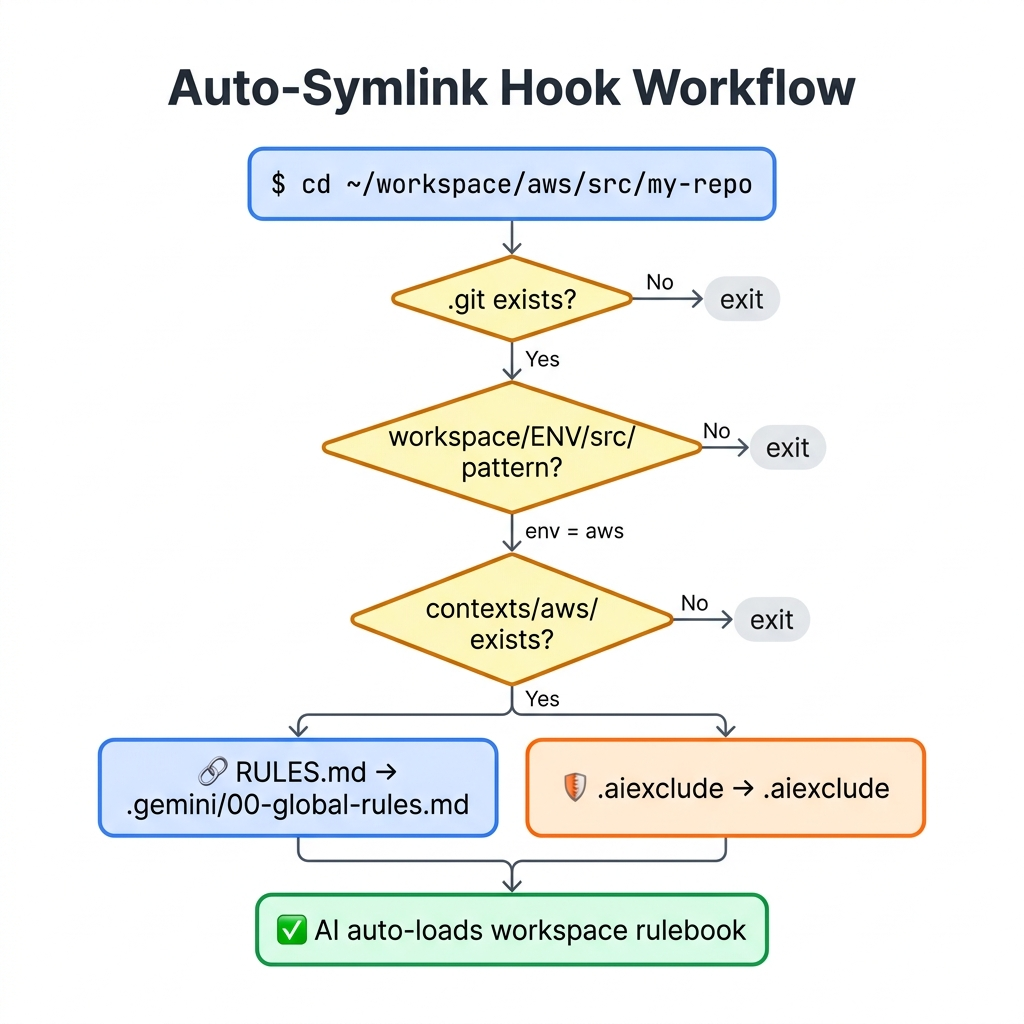
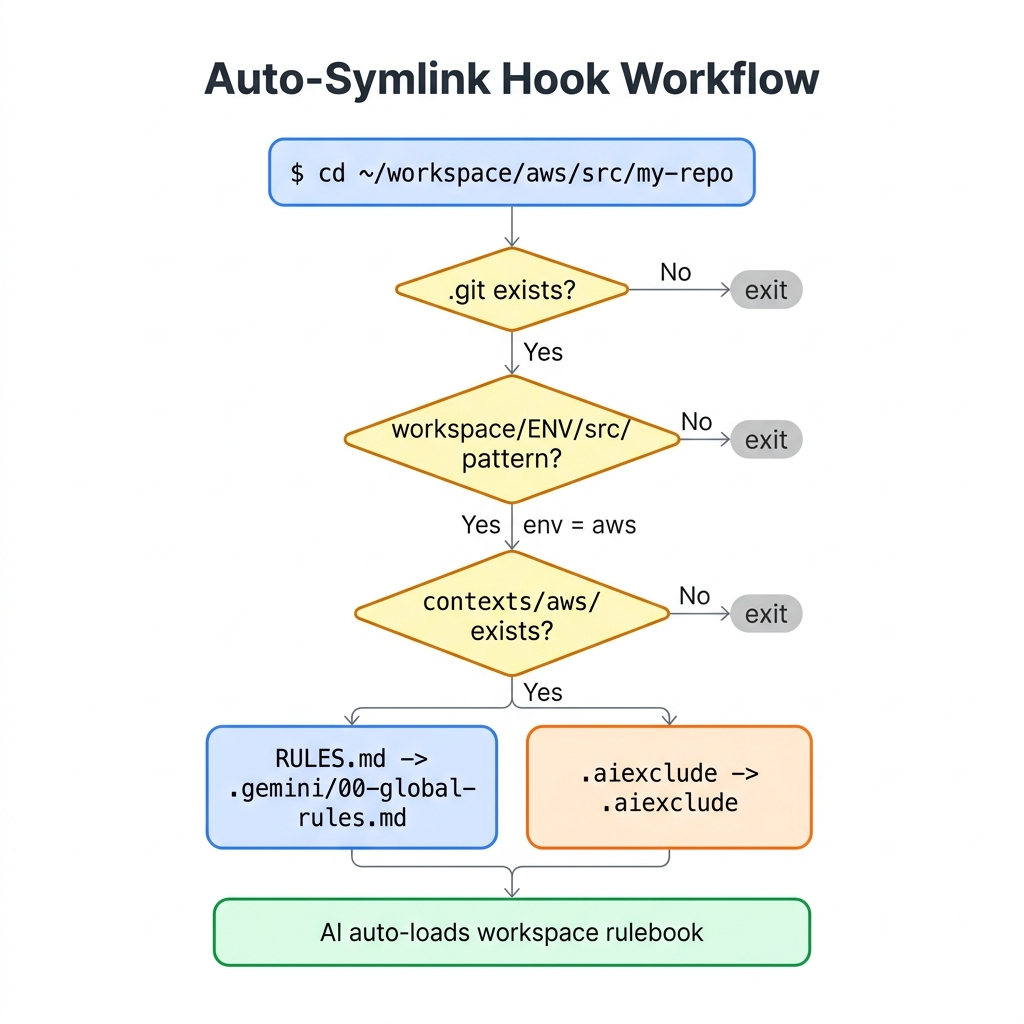
README 수정

Changed region(s): [[0.0938, 0.0625, 0.9062, 0.9688]]

diff --git a/README.md b/README.md
@@ -182,37 +182,11 @@ ls -la .gemini/
 
 ```text
 ~/dotfiles
-├── .aiexclude            # 루트: contexts/ 내 원본 소스 중복 인덱싱 차단
-├── .gitignore            # dotfiles 레포 자체 Git 무시 규칙
-├── GEMINI.md             # symlink → contexts/dotfiles/RULES.md
-│                         # (Gemini IDE 자동 인식 특수 파일명)
-├── README.md             # 본 문서
-├── setup.sh              # 전체 환경 자동 구성 스크립트 (set -euo pipefail)
-│
 ├── contexts/             # AI 컨텍스트 룰북 단일 진실 공급원 (SSOT)
-│   ├── dotfiles/         # dotfiles 레포 자체 관리용 메타 프롬프트
-│   │   ├── .contexts/    # 모듈 분할 소스 (000~050)
-│   │   │   ├── 000-universal-core.md
-│   │   │   ├── 010-dotfiles-core-standard.md
-│   │   │   ├── 020-shell-scripting-standard.md
-│   │   │   ├── 030-toolchain-management-standard.md
-│   │   │   ├── 040-dotfiles-security-standard.md
-│   │   │   └── 050-prompt-engineering-standard.md
-│   │   └── RULES.md      # 병합된 마스터 룰북 (setup.sh 자동 생성)
-│   │
 │   ├── aws/              # AWS 인프라 워크스페이스 룰북
-│   │   ├── .aiexclude    # AI 바이너리/로그 파일 차단 규칙
-│   │   ├── .contexts/    # 모듈 분할 소스 (000~110, 12개)
-│   │   └── RULES.md      # 병합된 마스터 룰북
-│   │
-│   ├── k8s/              # Kubernetes & Cloud Native 워크스페이스
-│   │   ├── .contexts/    # 모듈 분할 소스 (000~090, 10개)
-│   │   └── RULES.md      # 병합된 마스터 룰북
-│   │
-│   └── aiops/            # AIOps (운영 자동화) 워크스페이스
-│       ├── .aiexclude
-│       ├── .contexts/    # 모듈 분할 소스 (000~070, 8개)
-│       └── RULES.md      # 병합된 마스터 룰북
+│   ├── aiops/            # AIOps (운영 자동화) 워크스페이스
+│   ├── dotfiles/         # dotfiles 레포 자체 관리용 메타 프롬프트
+│   └── k8s/              # Kubernetes & Cloud Native 워크스페이스
 │
 ├── git/
 │   ├── .gitconfig        # 글로벌 Git 설정 (alias, pull.rebase=true)
@@ -224,8 +198,14 @@ ls -la .gemini/
 ├── vim/
 │   └── .vimrc            # Vim 설정 (클립보드 연동, YAML 2칸 탭)
 │
-└── zsh/
-    └── .zshrc            # Zsh 설정 (Oh My Zsh, 단축어, auto_symlink 훅)
+├── zsh/
+│   └── .zshrc            # Zsh 설정 (Oh My Zsh, 단축어, auto_symlink 훅)
+│
+├── .aiexclude            # 루트: contexts/ 내 원본 소스 중복 인덱싱 차단
+├── .gitignore            # dotfiles 레포 자체 Git 무시 규칙
+├── GEMINI.md             # symlink -> contexts/dotfiles/RULES.md
+├── README.md             # 본 문서
+└── setup.sh              # 전체 환경 자동 구성 스크립트 (set -euo pipefail)
 ```
 
 ---
@@ -236,98 +216,71 @@ ls -la .gemini/
 
 시스템 전역을 오염시키지 않고 `mise`와 `pipx`를 통해 안전하게 격리 설치됩니다.
 
-| 카테고리 | 도구 | 버전 |
-|---|---|---|
-| **보안 & 정책 검증** | trivy | 0.71.0 |
-| | conftest | 0.68.2 |
-| | cosign | 3.1.1 |
-| | trufflehog | 3.95.6 |
-| | checkov (pipx) | 3.3.1 |
-| | pre-commit (pipx) | 4.6.0 |
-| | yamllint (pipx) | 1.38.0 |
-| | cfn-lint (pipx) | 1.51.5 |
-| **IaC & 구성 관리** | terraform | 1.5.7 |
-| | terragrunt | 1.0.8 |
-| | tflint | 0.63.1 |
-| | terraform-docs | 0.24.0 |
-| | infracost | 0.10.44 |
-| | ansible | 9.5.1 |
-| | ansible-lint (pipx) | 26.4.0 |
-| **클라우드 CLI** | awscli | 2.15.30 |
-| | azure-cli | 2.87.0 |
-| | aws-sam-cli (pipx) | 1.162.1 |
-| **Kubernetes & 컨테이너** | kubectl | 1.30.1 |
-| | kubectx | 0.9.5 |
-| | k9s | 0.32.4 |
-| | docker-cli | 29.5.3 |
-| | helm | 4.2.1 |
-| | helm-docs | 1.14.2 |
-| | kustomize | 5.8.1 |
-| | kube-linter | 0.8.3 |
-| **로컬 테스트** | k3d | 5.6.3 |
-| | act | 0.2.62 |
-| **런타임** | node | 20.12.2 |
-| | python | 3.14.6 |
-| | go | 1.26.4 |
+**보안 & 정책 검증**
+`trivy` · `conftest` · `cosign` · `trufflehog` · `checkov` · `pre-commit` · `yamllint` · `cfn-lint`
+
+**IaC & 구성 관리**
+`terraform` · `terragrunt` · `tflint` · `terraform-docs` · `infracost` · `ansible` · `ansible-lint`
+
+**클라우드 CLI**
+`awscli` · `azure-cli` · `aws-sam-cli`
+
+**Kubernetes & 컨테이너**
+`kubectl` · `kubectx` · `k9s` · `docker-cli` · `helm` · `helm-docs` · `kustomize` · `kube-linter`
+
+**로컬 테스트**
+`k3d` · `act`
+
+**런타임**
+`node` · `python` · `go`
+
+> 버전 고정 정보는 [`mise/.mise.toml`](mise/.mise.toml)에서 확인하십시오.
 
 ### 2. 주요 단축어 (`.zshrc` & `.gitconfig`)
 
-**Terraform**
-
 ```bash
-tf   # terraform
-tfi  # terraform init
-tfp  # terraform plan
-tfv  # terraform validate
-tff  # terraform fmt -recursive
-```
+# --- Terraform ---
+tf        # terraform
+tfi       # terraform init
+tfp       # terraform plan
+tfv       # terraform validate
+tff       # terraform fmt -recursive
 
-**Kubernetes**
+# --- Kubernetes ---
+k         # kubectl
+kx        # kubectx
+kn        # kubens
+kgp       # kubectl get pods
+kgs       # kubectl get svc
+kga       # kubectl get all
+kdp       # kubectl describe pod
+klogs     # kubectl logs -f
+kex       # kubectl exec -i -t
+knet      # 트러블슈팅용 netshoot 컨테이너 즉시 실행
 
-```bash
-k      # kubectl
-kx     # kubectx
-kn     # kubens
-kgp    # kubectl get pods
-kgs    # kubectl get svc
-kga    # kubectl get all
-kdp    # kubectl describe pod
-klogs  # kubectl logs -f
-kex    # kubectl exec -i -t
-knet   # 트러블슈팅용 netshoot 컨테이너 즉시 실행
-```
+# --- Docker & Helm ---
+d         # docker
+dc        # docker-compose
+h         # helm
 
-**Docker & Helm**
+# --- Git ---
+git st    # status
+git co    # checkout
+git cb    # checkout -b
+git br    # branch
+git cm    # commit -m
+git df    # diff
+git amend # commit --amend --no-edit
+git lg    # 컬러 그래프 히스토리 (가독성 최적화)
 
-```bash
-d   # docker
-dc  # docker-compose
-h   # helm
-```
-
-**Git (`.gitconfig` alias)**
-
-```bash
-git st     # status
-git co     # checkout
-git cb     # checkout -b
-git br     # branch
-git cm     # commit -m
-git df     # diff
-git amend  # commit --amend --no-edit
-git lg     # 컬러 그래프 히스토리 (가독성 최적화)
-```
-
-**시스템 편의성**
-
-```bash
+# --- 시스템 편의성 ---
 src       # source ~/.zshrc (설정 즉시 재로드)
 ll        # ls -alF
 bat       # batcat (Ubuntu 패키지명 충돌 해결)
 fd        # fdfind (Ubuntu 패키지명 충돌 해결)
 c         # code .
 e         # explorer.exe . (WSL2)
-catcode   # 현재 디렉토리의 인프라 코드 전체를 all_code.txt로 추출 (AI 컨텍스트 주입용)
+catcode   # 현재 디렉토리 인프라 코드 전체를 all_code.txt로 추출
 ```
 
 ### 3. 로컬 시크릿 파일 (`~/.zshrc.local`)
